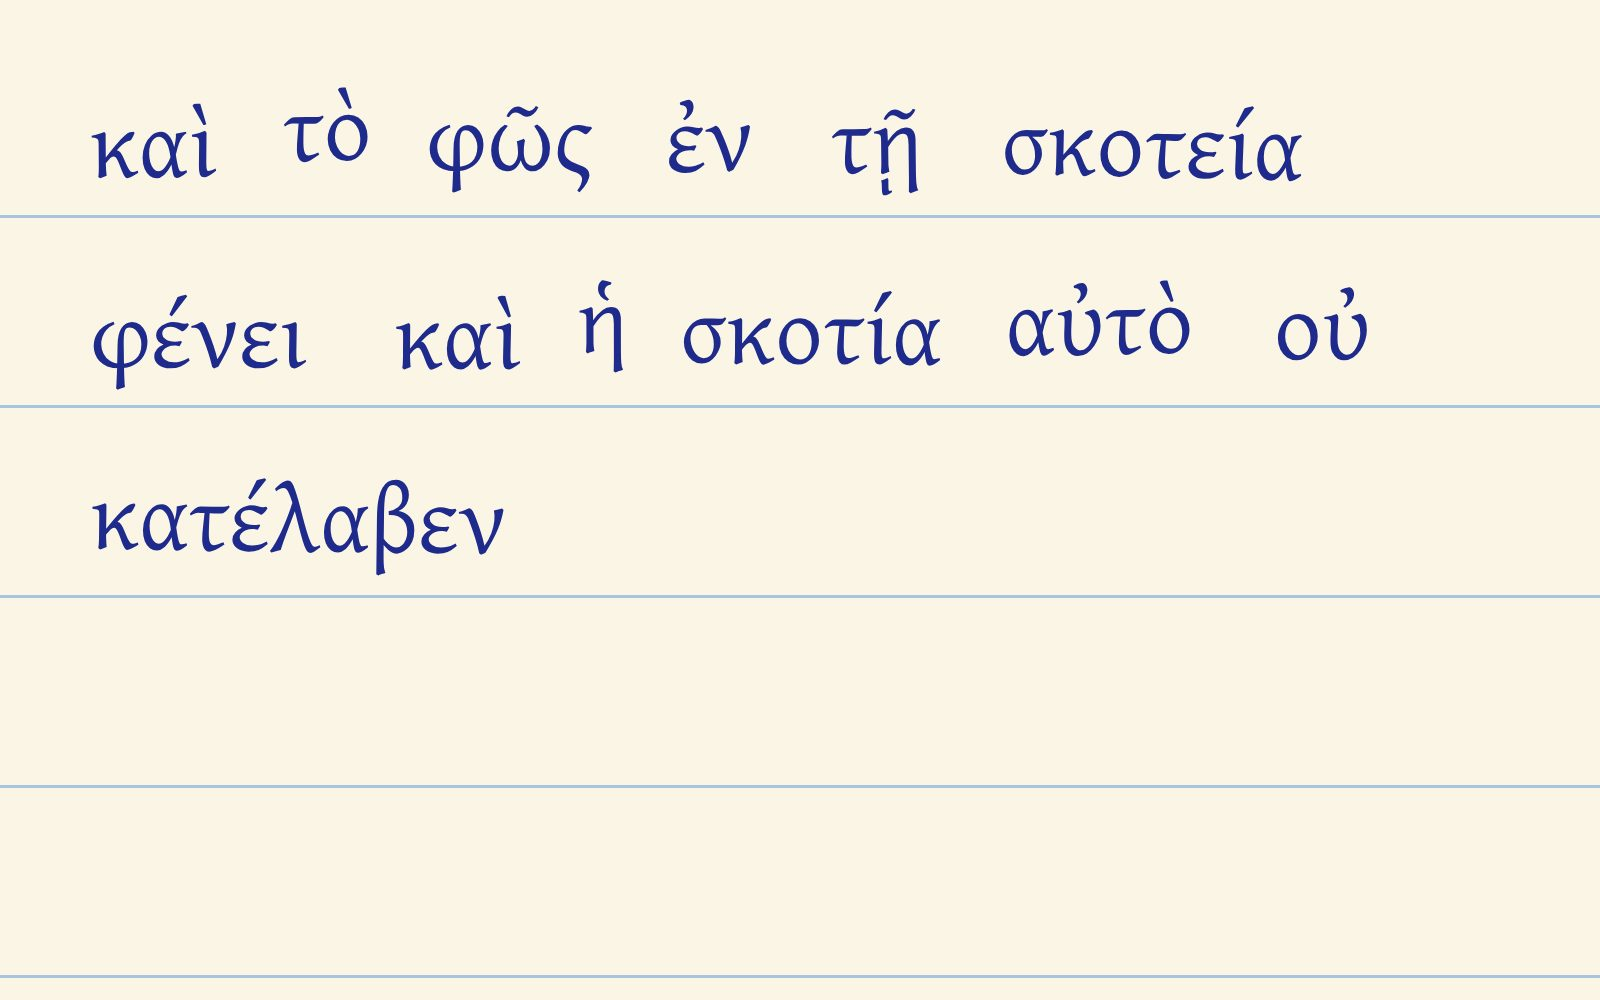
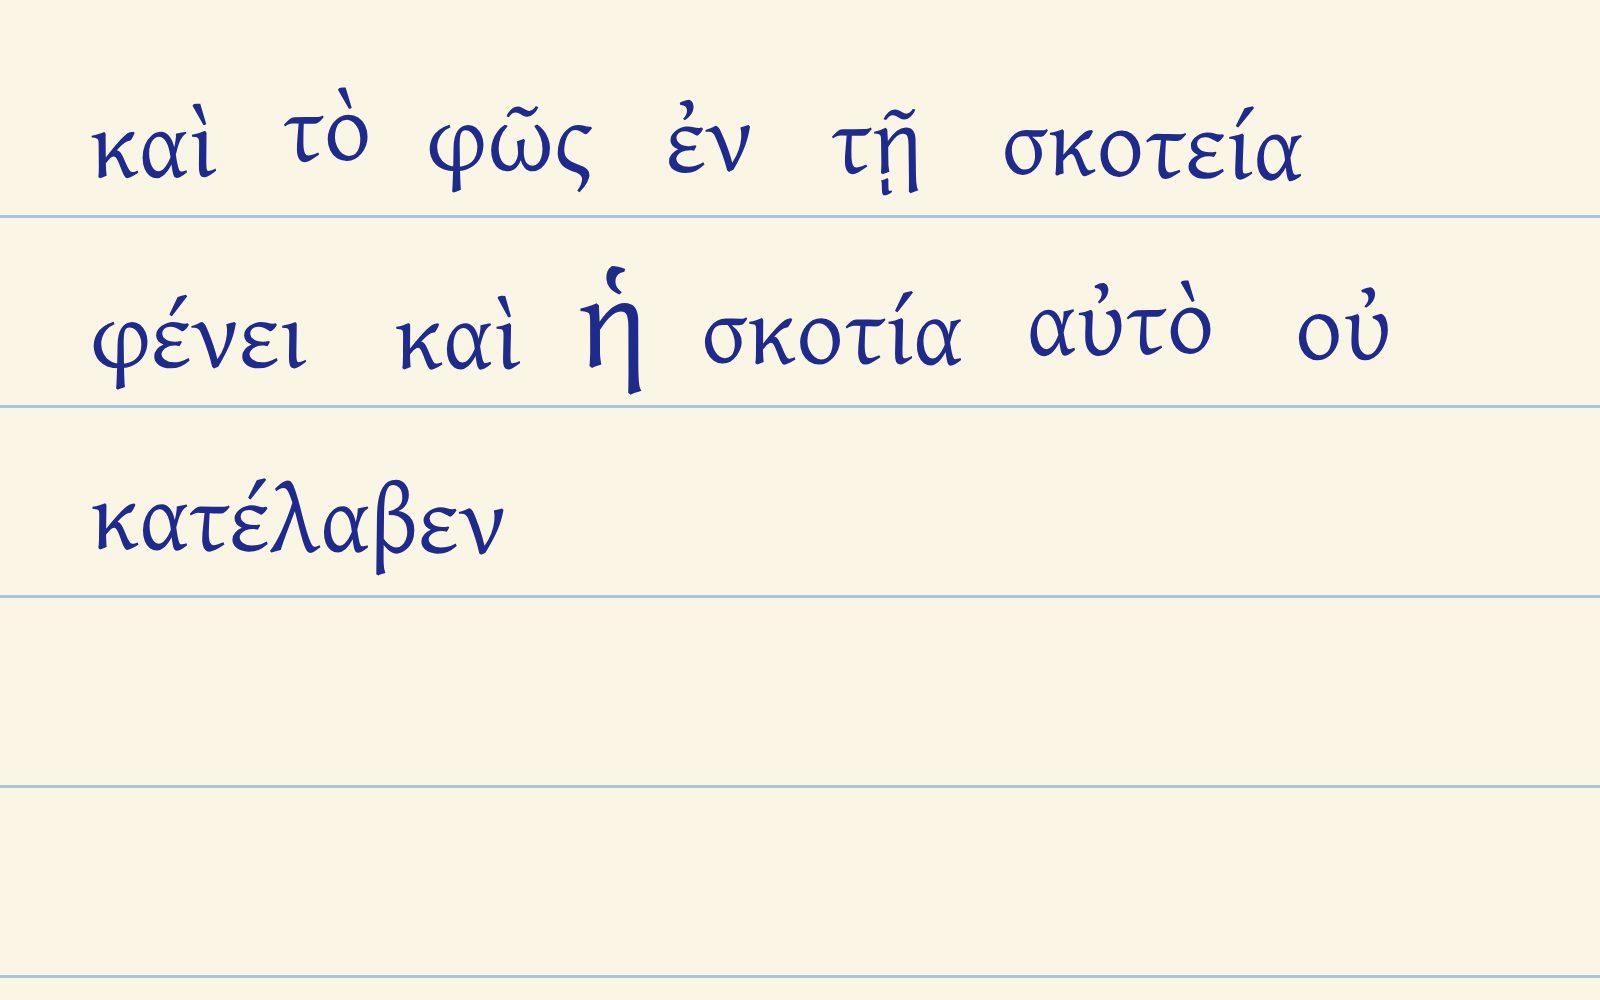
Copywork page john-1-5: draw the lone-breathing ἡ larger so its curl is not read as an accent

Changed region(s): [[0.3438, 0.248, 0.5938, 0.403], [0.625, 0.279, 0.875, 0.372]]

diff --git a/scripts/render-copywork-examples.ts b/scripts/render-copywork-examples.ts
@@ -27,6 +27,8 @@ export interface PageSpec {
   replace?: Record<number, string>;
   leaveOut?: number[];
   stopAt?: number;
+  /** Words (by their place on the page) drawn bigger, as a multiple of the page's type: a lone breathing (ἡ) is a curl the model reads as an accent at the page's size (mw-qtu3zvz.153). */
+  enlarge?: Record<number, number>;
 }
 
 export const COPYWORK_PAGES: Record<string, PageSpec> = {
@@ -37,7 +39,7 @@ export const COPYWORK_PAGES: Record<string, PageSpec> = {
   'grc-perfect-john-1-1': { language: 'grc' },
   'grc-errors-john-1-1': { language: 'grc', replace: { 1: 'ἀρχή', 9: 'πρός' } },
   'grc-dictation-perfect-john-1-1': { language: 'grc' },
-  'grc-dictation-sounds-alike-john-1-5': { language: 'grc', replace: { 5: 'σκοτεία', 6: 'φένει' } },
+  'grc-dictation-sounds-alike-john-1-5': { language: 'grc', replace: { 5: 'σκοτεία', 6: 'φένει' }, enlarge: { 8: 1.4 } },
   'hbo-perfect-genesis-1-1': { language: 'hbo' },
   'hbo-errors-genesis-1-1': { language: 'hbo', replace: { 1: 'ברא' }, leaveOut: [5] },
   'hbo-dictation-perfect-genesis-1-3': { language: 'hbo' },
@@ -79,7 +81,7 @@ export function pageHtml(name: string, words: string[], spec: PageSpec): string 
     .map((f) => `@font-face{font-family:'${font.family}';font-weight:${font.weight};src:url(data:font/woff2;base64,${readFileSync(join(FONT_DIR, f)).toString('base64')}) format('woff2');}`)
     .join('\n');
   const spans = words
-    .map((w) => `<span style="transform:translateY(${rise(rand() * 20 - 10)}px) rotate(${((rand() * 3 - 1.5) * tilt).toFixed(2)}deg);margin-inline-end:${(52 + rand() * 40).toFixed(0)}px">${w}</span>`)
+    .map((w, i) => `<span style="${spec.enlarge?.[i] ? `font-size:${Math.round(font.size * spec.enlarge[i])}px;` : ''}transform:translateY(${rise(rand() * 20 - 10)}px) rotate(${((rand() * 3 - 1.5) * tilt).toFixed(2)}deg);margin-inline-end:${(52 + rand() * 40).toFixed(0)}px">${w}</span>`)
     .join('');
   return `<!doctype html><html lang="${spec.language === 'hbo' ? 'he' : spec.language === 'grc' ? 'el' : 'en'}" dir="${rtl ? 'rtl' : 'ltr'}"><meta charset="utf-8"><style>
 ${faces}

diff --git a/tests/unit/copywork-example-pages.test.ts b/tests/unit/copywork-example-pages.test.ts
@@ -4,7 +4,7 @@
 import { describe, expect, it } from 'vitest';
 import { readdirSync, readFileSync, statSync } from 'node:fs';
 import { TALK_MAX_EDGE } from '../../src/talk/pictures';
-import { COPYWORK_PAGES } from '../../scripts/render-copywork-examples';
+import { COPYWORK_PAGES, pageHtml, writtenWords } from '../../scripts/render-copywork-examples';
 import '../support/grinds-in-graph';
 
 const DIR = 'grinds/examples/copywork';
@@ -54,4 +54,17 @@ describe('the lines dropped for a small point are back', () => {
   it('hbo-dictation-perfect-genesis-1-3 holds וַיֹּאמֶר right (4f2f20db)', () => holds('hbo-dictation-perfect-genesis-1-3', 'words.0.mark', { equals: 'right' }));
   it('hbo-dictation-perfect-genesis-1-3 holds word 0 sounds_alike absent (4e2be1f4)', () => holds('hbo-dictation-perfect-genesis-1-3', 'words.0.sounds_alike', { present: false }));
   it('grc-dictation-sounds-alike-john-1-5 holds τῇ right (0924d166)', () => holds('grc-dictation-sounds-alike-john-1-5', 'words.4.mark', { equals: 'right' }));
+});
+
+describe('a lone breathing is drawn large enough to read as a breathing (mw-qtu3zvz.153)', () => {
+  const name = 'grc-dictation-sounds-alike-john-1-5';
+  const words = (JSON.parse(readFileSync(`${DIR}/${name}.json`, 'utf8')) as { request: { words: string[] } }).request.words;
+
+  it('draws ἡ (word 8) bigger than its neighbours, so its curl is not read as an accent', () => {
+    const html = pageHtml(name, writtenWords(words, COPYWORK_PAGES[name]), COPYWORK_PAGES[name]);
+    const spans = html.match(/<span style="[^"]*">[^<]*<\/span>/g) ?? [];
+    expect(spans[8]).toContain('ἡ');
+    expect(spans[8], 'the ἡ span has its own font-size').toMatch(/font-size:\d+(\.\d+)?px/);
+    expect(spans[7], 'its neighbour keeps the page size').not.toMatch(/font-size/);
+  });
 });
